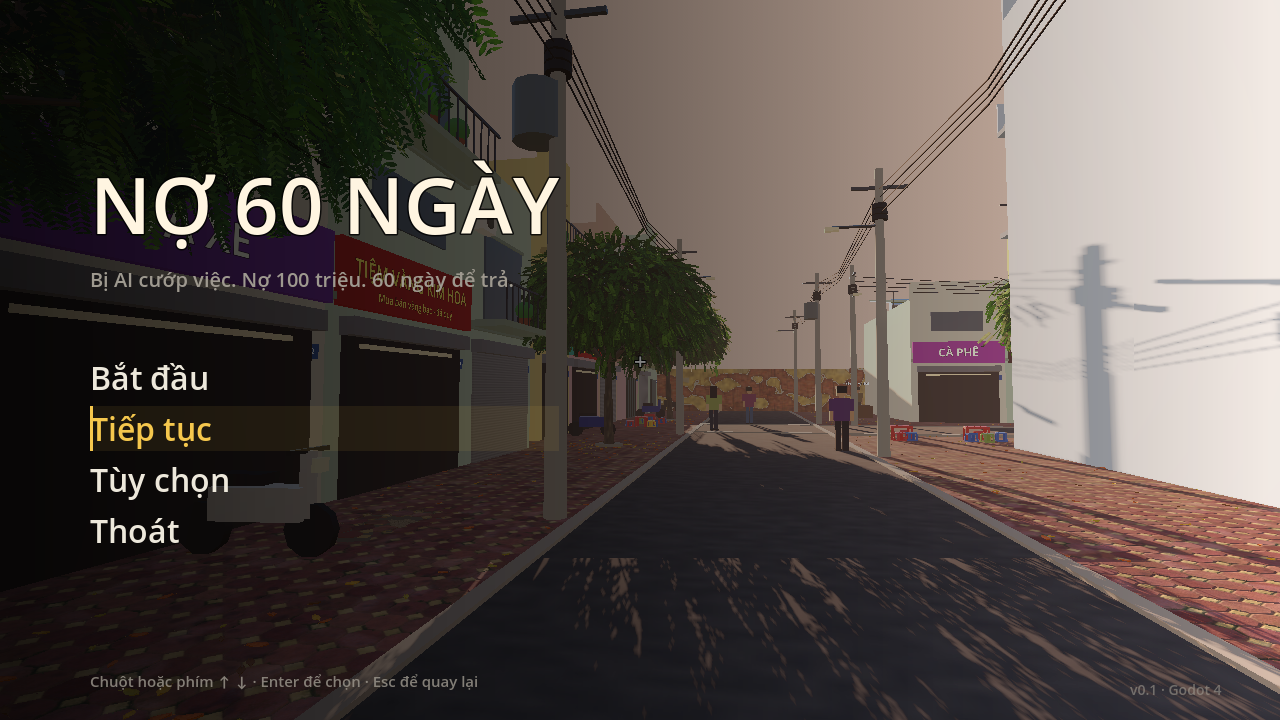
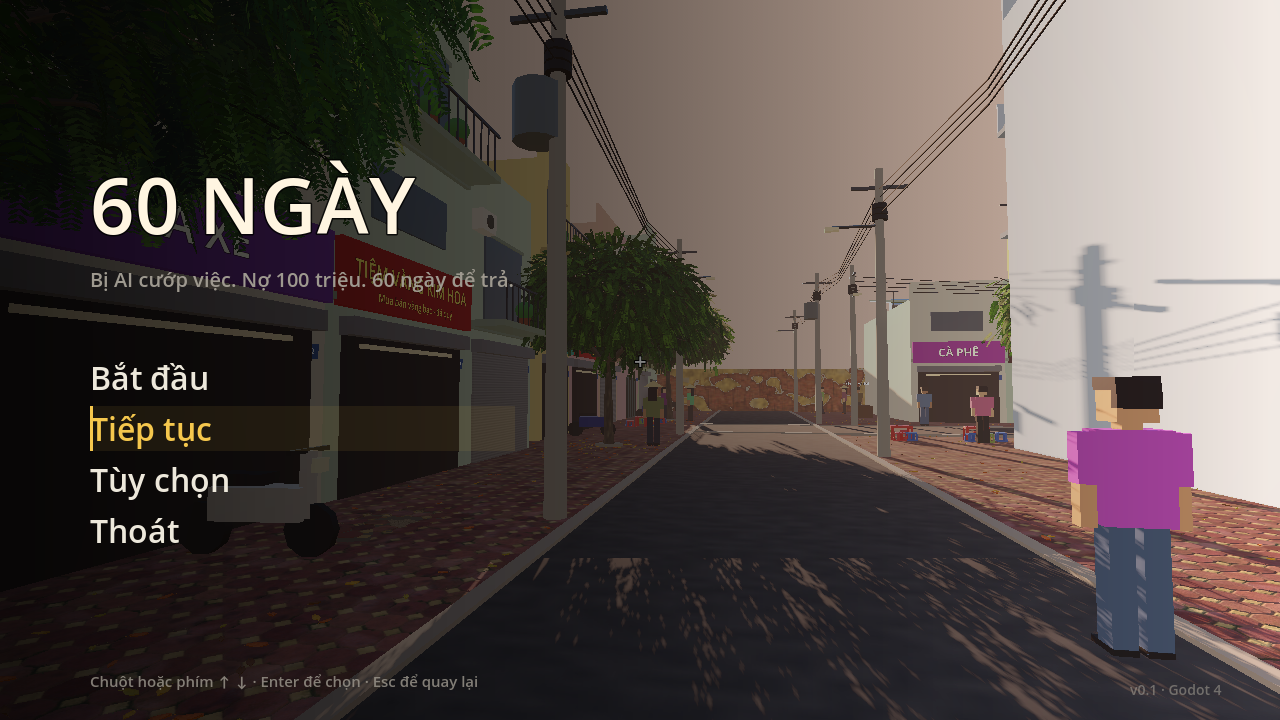
Đổi tên game thành "60 Ngày"
- Màn hình chính hiện "60 NGÀY"; tên dự án Godot (config/name) và tiêu đề README đổi theo

Claude-Session: https://claude.ai/code/session_01MPYPNJEDBqguDdfXDT6hwg

diff --git a/README.md b/README.md
@@ -1,4 +1,4 @@
-# Nợ 60 Ngày (bản dựng đầu, greybox)
+# 60 Ngày (bản dựng đầu, greybox)
 
 Game nhập vai 3D góc nhìn thứ nhất: trả 100 triệu trong 60 ngày bằng cách stream, nhặt nhạnh, đánh liều ở chỗ đỏ đen, và giữ vợ không bỏ đi.
 
